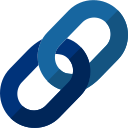
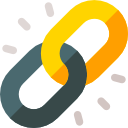
final

diff --git a/popup.html b/popup.html
@@ -9,27 +9,63 @@
     <title>URL Decoder</title>
     <style>
         body{
-            width:400px; 
-            
+            width:600px; 
+            background: #12233a;
+             color: white;
         }
+        .jumbotron{
+            background:#d68e00;
+            color: white;
+        }
+        a{
+            font-size: 18px;
+            color:white; 
+            text-decoration: none;
+        }
+
+        a:hover, a:active{
+            font-size: 18px;
+            color:#d68e00; 
+            text-decoration: none;
+        }
+
     </style>
 </head>
 <body>
-    <div class="container">
-        <div class="jumbotron jumbotron-fluid text-center">
-            <h3>Decode Short URL</h3>
-           
+    
+        <div class="jumbotron jumbotron-fluid">
+            <div class="row justify-content text-center">
+                <div class="col-1 text-center"></div>
+                <div class="col-auto text-center">
+                    <img class="d-inline" src="icon.png" alt="" style="width:75px; margin:30px; ">
+                    <h3 class="d-inline">Decode Short URL</h3></div>
+                <div class="col-1"></div>
+                
+            </div>            
         </div>
+    <div class="container  text-center " style="font-size: 24px; ;">
+        <label for="urlToDecode">Short Link to Decode</label>
+        <!-- <input class="form-contol" type="text" id = "urlToDecode"> -->
+        <input id = "urlToDecode" type="text" class="form-control mt-2" placeholder="https:bit.ly" aria-label="Username" aria-describedby="basic-addon1">
+        <button class="btn btn-danger mt-4" id="submit">Submit</button>
+        
     </div>
-    <div class="container">
-        <label for="urlToDecode">Url To Decode</label>
-        <input type="text" id = "urlToDecode">
-        <button id="submit">Submit</button>
-        <div id="result">
 
-        </div>
+    <div class="mt-3" style="text-align: center; width: 100%;">
+        <a href="" target="_blank" id="result"></a>
     </div>
+
+    <div style="height: 100px; display: flex; justify-content: center; align-items: center; margin-top: 50px; background: black;">
+       
+       <div style="">Simple App for your convinience by Dhaval Patel</div> 
+        
+      </div>
    
+    <!-- <footer class= "mt-3 " style="height:85px; background:black">
+        <div class="container d-flex ">
+            <p class="align-item-center" stlye="margin:0 auto">Simple App for your convinience by Dhaval Patel </p>
+        </div>
+      </footer> -->
 
     <script src="popup.js"></script>
 

diff --git a/popup.js b/popup.js
@@ -1,7 +1,7 @@
 function submit(){
  //document.getElementById("result").innerHTML = "hello" ; 
  var xhr = new XMLHttpRequest();
-xhr.open("GET", encodeURI('https://decodeshorturl.herokuapp.com/https://t.co/xchSvJxTqW?amp=1'), true);
+xhr.open("POST", encodeURI('https://urldecode.herokuapp.com/'), true);
 
 //Send the proper header information along with the request
 xhr.setRequestHeader("Content-Type", "application/x-www-form-urlencoded");
@@ -9,10 +9,13 @@ xhr.setRequestHeader("Content-Type", "application/x-www-form-urlencoded");
 xhr.onreadystatechange = function() { // Call a function when the state changes.
     if (this.readyState === XMLHttpRequest.DONE && this.status === 200) {
         document.getElementById("result").innerHTML = xhr.responseText ; 
+        document.getElementById("result").setAttribute("href", xhr.responseText); 
     }
 }
-//var body={url: "https://t.co/xchSvJxTqW?amp=1"}; 
-xhr.send();
+
+var param = 'data={"url": "' + document.getElementById("urlToDecode").value + '"}'; 
+
+xhr.send(encodeURI(param));
     
 }
 
